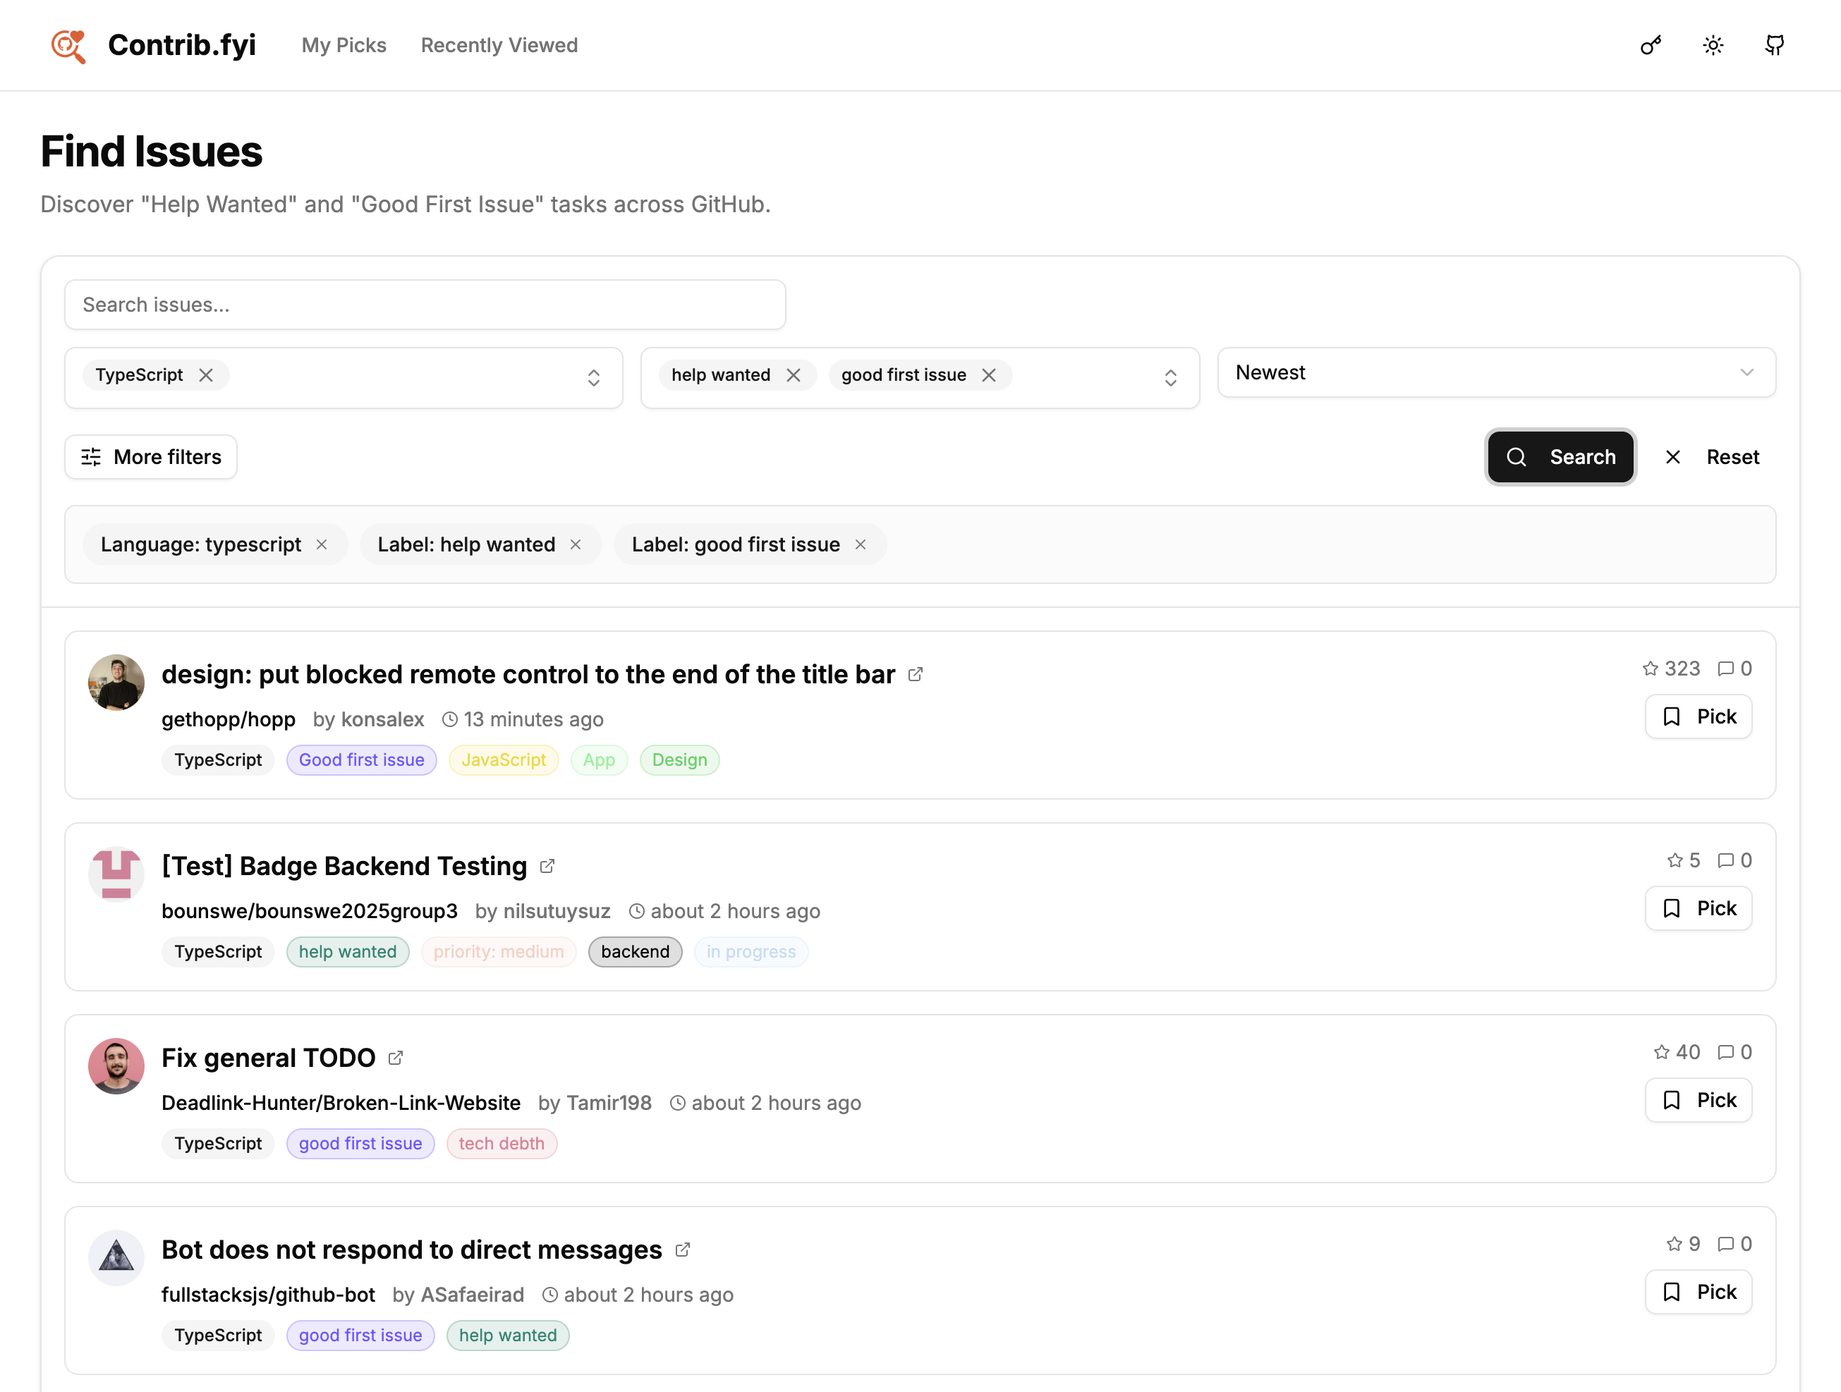
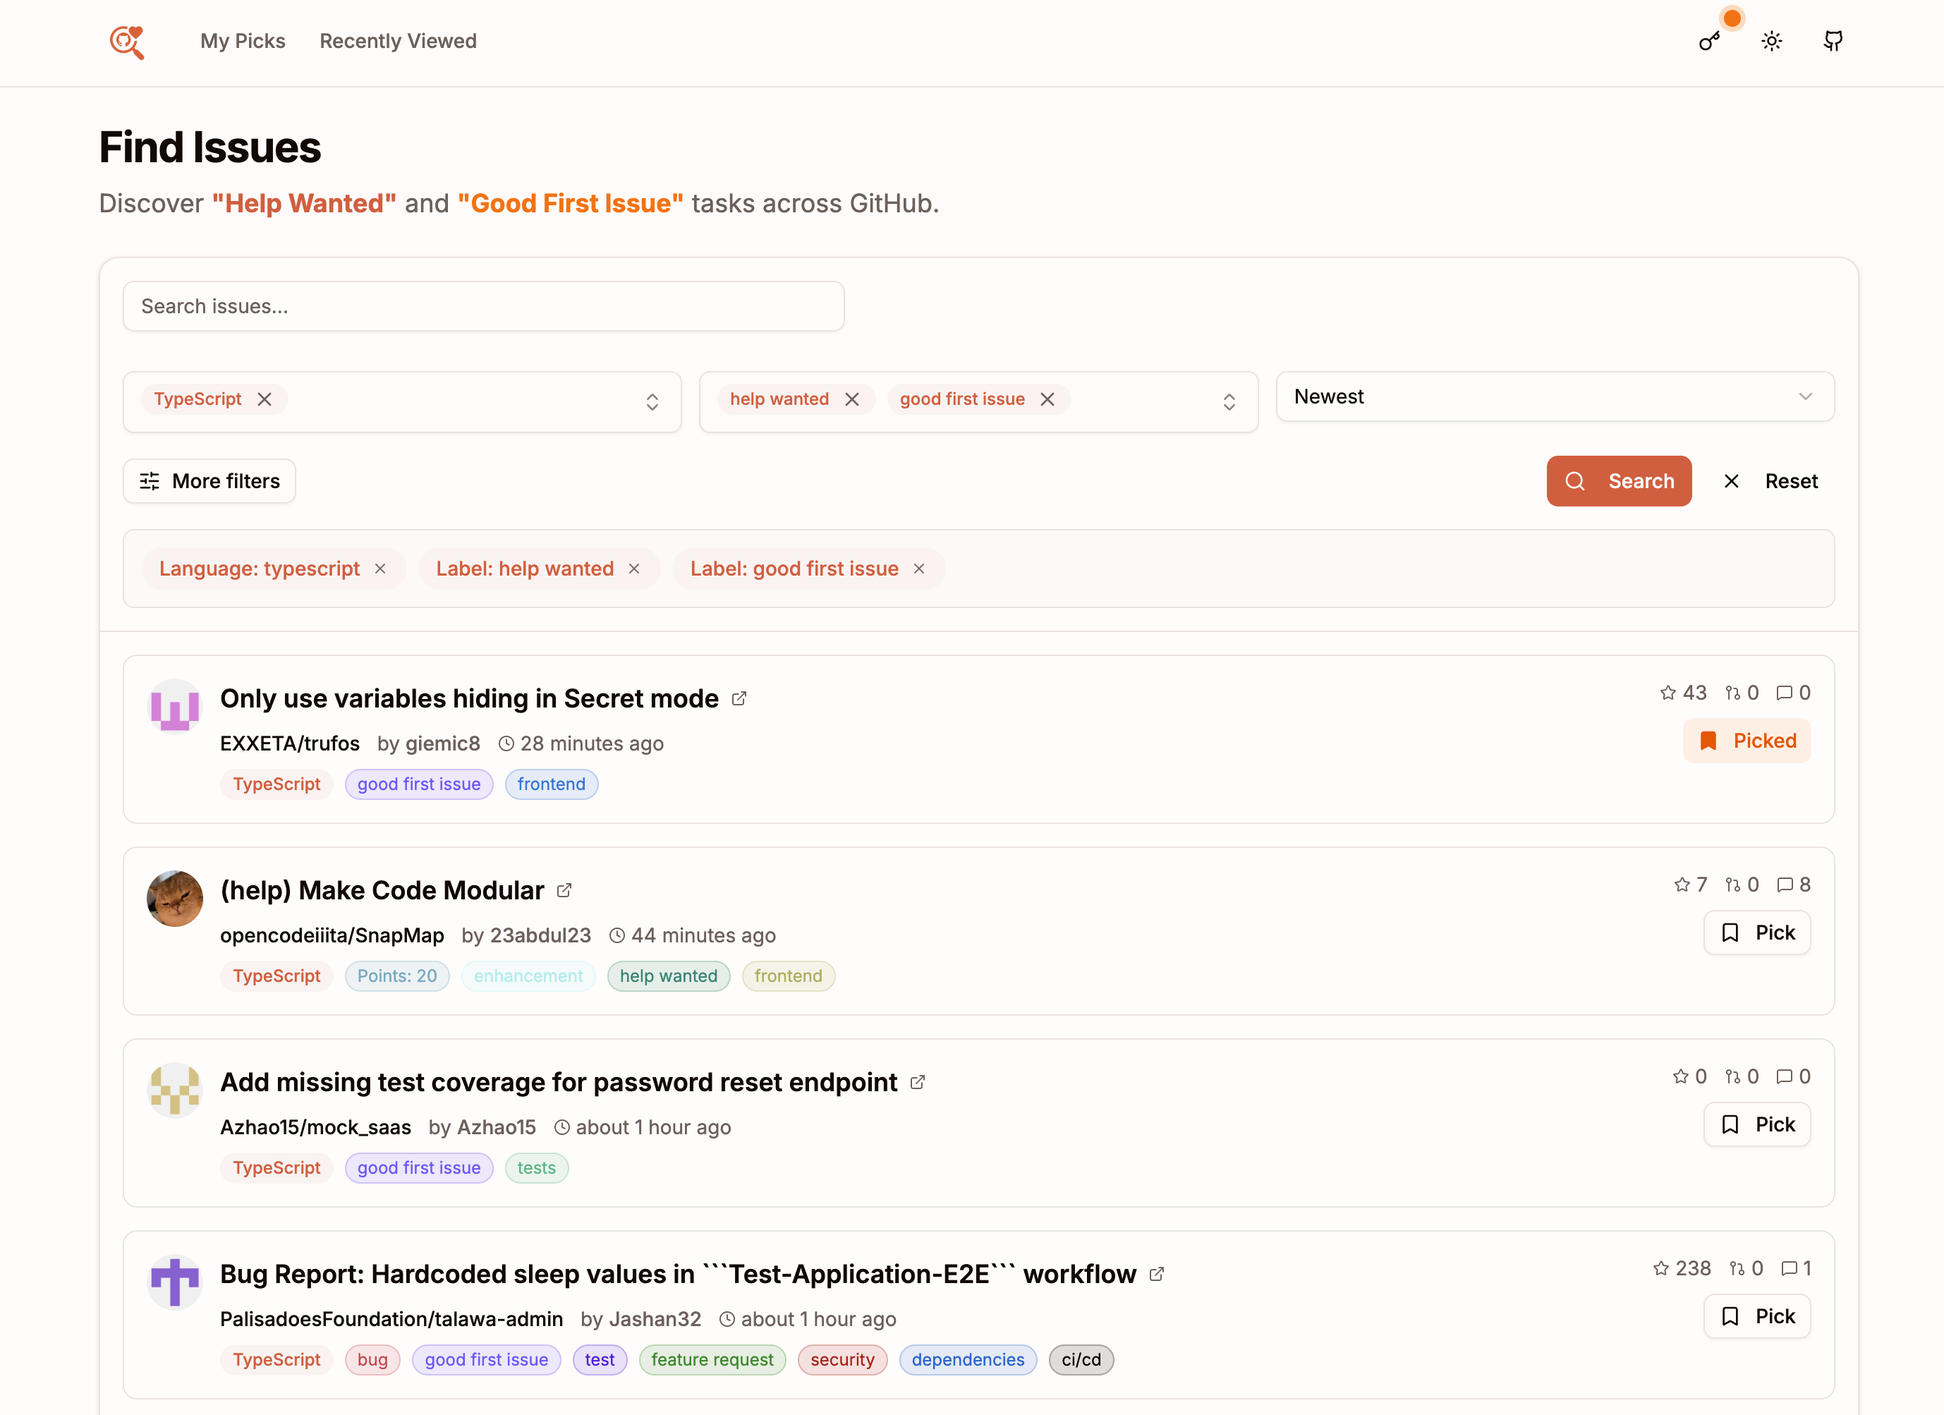
style: refine application color palette and update UI element colors. (#38)
* style: refine application color palette and update UI element colors.

* docs: Revise README to clarify project value and features, update screenshot, and add `suppressHydrationWarning` to body.

diff --git a/web/app/globals.css b/web/app/globals.css
@@ -46,71 +46,71 @@
 
 :root {
   --radius: 0.625rem;
-  --background: oklch(1 0 0);
-  --foreground: oklch(0.145 0 0);
-  --card: oklch(1 0 0);
-  --card-foreground: oklch(0.145 0 0);
+  --background: oklch(0.99 0.005 35);
+  --foreground: oklch(0.15 0.02 35);
+  --card: oklch(0.995 0.005 35);
+  --card-foreground: oklch(0.15 0.02 35);
   --popover: oklch(1 0 0);
-  --popover-foreground: oklch(0.145 0 0);
-  --primary: oklch(0.205 0 0);
+  --popover-foreground: oklch(0.15 0.02 35);
+  --primary: oklch(0.63 0.18 35);
   --primary-foreground: oklch(0.985 0 0);
-  --secondary: oklch(0.97 0 0);
-  --secondary-foreground: oklch(0.205 0 0);
-  --muted: oklch(0.97 0 0);
-  --muted-foreground: oklch(0.556 0 0);
-  --accent: oklch(0.97 0 0);
-  --accent-foreground: oklch(0.205 0 0);
-  --destructive: oklch(0.577 0.245 27.325);
-  --border: oklch(0.922 0 0);
-  --input: oklch(0.922 0 0);
-  --ring: oklch(0.708 0 0);
-  --chart-1: oklch(0.646 0.222 41.116);
-  --chart-2: oklch(0.6 0.118 184.704);
-  --chart-3: oklch(0.398 0.07 227.392);
-  --chart-4: oklch(0.828 0.189 84.429);
-  --chart-5: oklch(0.769 0.188 70.08);
-  --sidebar: oklch(0.985 0 0);
-  --sidebar-foreground: oklch(0.145 0 0);
-  --sidebar-primary: oklch(0.205 0 0);
+  --secondary: oklch(0.97 0.01 35);
+  --secondary-foreground: oklch(0.63 0.18 35);
+  --muted: oklch(0.97 0.01 35);
+  --muted-foreground: oklch(0.5 0.02 35);
+  --accent: oklch(0.97 0.01 35);
+  --accent-foreground: oklch(0.63 0.18 35);
+  --destructive: oklch(0.55 0.22 25);
+  --border: oklch(0.92 0.01 35);
+  --input: oklch(0.92 0.01 35);
+  --ring: oklch(0.63 0.18 35);
+  --chart-1: oklch(0.63 0.18 35);
+  --chart-2: oklch(0.68 0.16 45);
+  --chart-3: oklch(0.73 0.14 55);
+  --chart-4: oklch(0.78 0.12 65);
+  --chart-5: oklch(0.83 0.1 75);
+  --sidebar: oklch(0.98 0.005 35);
+  --sidebar-foreground: oklch(0.15 0.02 35);
+  --sidebar-primary: oklch(0.63 0.18 35);
   --sidebar-primary-foreground: oklch(0.985 0 0);
-  --sidebar-accent: oklch(0.97 0 0);
-  --sidebar-accent-foreground: oklch(0.205 0 0);
-  --sidebar-border: oklch(0.922 0 0);
-  --sidebar-ring: oklch(0.708 0 0);
+  --sidebar-accent: oklch(0.97 0.01 35);
+  --sidebar-accent-foreground: oklch(0.63 0.18 35);
+  --sidebar-border: oklch(0.92 0.01 35);
+  --sidebar-ring: oklch(0.63 0.18 35);
 }
 
 .dark {
-  --background: oklch(0.145 0 0);
-  --foreground: oklch(0.985 0 0);
-  --card: oklch(0.205 0 0);
-  --card-foreground: oklch(0.985 0 0);
-  --popover: oklch(0.205 0 0);
-  --popover-foreground: oklch(0.985 0 0);
-  --primary: oklch(0.922 0 0);
-  --primary-foreground: oklch(0.205 0 0);
-  --secondary: oklch(0.269 0 0);
-  --secondary-foreground: oklch(0.985 0 0);
-  --muted: oklch(0.269 0 0);
-  --muted-foreground: oklch(0.708 0 0);
-  --accent: oklch(0.269 0 0);
-  --accent-foreground: oklch(0.985 0 0);
-  --destructive: oklch(0.704 0.191 22.216);
-  --border: oklch(1 0 0 / 10%);
-  --input: oklch(1 0 0 / 15%);
-  --ring: oklch(0.556 0 0);
-  --chart-1: oklch(0.488 0.243 264.376);
-  --chart-2: oklch(0.696 0.17 162.48);
-  --chart-3: oklch(0.769 0.188 70.08);
-  --chart-4: oklch(0.627 0.265 303.9);
-  --chart-5: oklch(0.645 0.246 16.439);
-  --sidebar: oklch(0.205 0 0);
-  --sidebar-foreground: oklch(0.985 0 0);
-  --sidebar-primary: oklch(0.488 0.243 264.376);
-  --sidebar-primary-foreground: oklch(0.985 0 0);
-  --sidebar-accent: oklch(0.269 0 0);
-  --sidebar-accent-foreground: oklch(0.985 0 0);
-  --sidebar-border: oklch(1 0 0 / 10%);
-  --sidebar-ring: oklch(0.556 0 0);
+  --background: oklch(0.12 0.02 260);
+  --foreground: oklch(0.98 0.005 35);
+  --card: oklch(0.15 0.02 260);
+  --card-foreground: oklch(0.98 0.005 35);
+  --popover: oklch(0.15 0.02 260);
+  --popover-foreground: oklch(0.98 0.005 35);
+  --primary: oklch(0.68 0.18 40);
+  --primary-foreground: oklch(0.1 0.02 260);
+  --secondary: oklch(0.18 0.04 35);
+  --secondary-foreground: oklch(0.98 0.005 35);
+  --muted: oklch(0.18 0.04 35);
+  --muted-foreground: oklch(0.7 0.01 35);
+  --accent: oklch(0.18 0.04 35);
+  --accent-foreground: oklch(0.98 0.005 35);
+  --destructive: oklch(0.6 0.18 25);
+  --border: oklch(0.2 0.02 260);
+  --input: oklch(0.2 0.02 260);
+  --ring: oklch(0.68 0.18 40);
+  --chart-1: oklch(0.68 0.18 40);
+  --chart-2: oklch(0.73 0.16 50);
+  --chart-3: oklch(0.78 0.14 60);
+  --chart-4: oklch(0.83 0.12 70);
+  --chart-5: oklch(0.88 0.1 80);
+  --sidebar: oklch(0.15 0.02 260);
+  --sidebar-foreground: oklch(0.98 0.005 35);
+  --sidebar-primary: oklch(0.68 0.18 40);
+  --sidebar-primary-foreground: oklch(0.1 0.02 260);
+  --sidebar-accent: oklch(0.18 0.04 35);
+  --sidebar-accent-foreground: oklch(0.98 0.005 35);
+  --sidebar-border: oklch(0.2 0.02 260);
+  --sidebar-ring: oklch(0.68 0.18 40);
 }
 
 @layer base {

diff --git a/web/components/features/auth/TokenSettings.tsx b/web/components/features/auth/TokenSettings.tsx
@@ -57,8 +57,8 @@ export function TokenSettings() {
           <Key className="h-5 w-5" />
           {isTokenSet && (
             <span className="absolute -top-1 -right-1 flex h-3 w-3">
-              <span className="absolute inline-flex h-full w-full animate-ping rounded-full bg-green-400 opacity-75"></span>
-              <span className="relative inline-flex h-3 w-3 rounded-full bg-green-500"></span>
+              <span className="absolute inline-flex h-full w-full animate-ping rounded-full bg-orange-400 opacity-75"></span>
+              <span className="relative inline-flex h-3 w-3 rounded-full bg-orange-500"></span>
             </span>
           )}
         </Button>
@@ -86,20 +86,20 @@ export function TokenSettings() {
           </div>
 
           {/* Feature Unlock Callout */}
-          <div className="rounded-lg border border-blue-500/20 bg-gradient-to-r from-blue-500/10 via-purple-500/10 to-pink-500/10 p-3">
+          <div className="bg-muted/50 rounded-lg border p-3">
             <div className="flex items-start gap-2">
-              <div className="shrink-0 rounded-full bg-gradient-to-br from-blue-500 to-purple-600 p-1.5">
+              <div className="bg-primary shrink-0 rounded-full p-1.5">
                 <svg
                   xmlns="http://www.w3.org/2000/svg"
                   viewBox="0 0 24 24"
                   fill="currentColor"
-                  className="h-3.5 w-3.5 text-white"
+                  className="text-primary-foreground h-3.5 w-3.5"
                 >
                   <path d="M9.153 5.408C10.42 3.136 11.053 2 12 2c.947 0 1.58 1.136 2.847 3.408l.328.588c.36.646.54.969.82 1.182.28.213.63.292 1.33.45l.636.144c2.46.557 3.689.835 3.982 1.776.292.94-.546 1.921-2.223 3.882l-.434.507c-.476.557-.715.836-.822 1.18-.107.345-.071.717.001 1.46l.066.677c.253 2.617.38 3.925-.386 4.506-.766.582-1.918.051-4.22-1.009l-.597-.274c-.654-.302-.981-.452-1.328-.452-.347 0-.674.15-1.329.452l-.595.274c-2.303 1.06-3.455 1.59-4.22 1.01-.767-.582-.64-1.89-.387-4.507l.066-.676c.072-.744.108-1.116 0-1.46-.106-.345-.345-.624-.821-1.18l-.434-.508c-1.677-1.96-2.515-2.941-2.223-3.882.293-.941 1.523-1.22 3.983-1.776l.636-.144c.699-.158 1.048-.237 1.329-.45.28-.213.46-.536.82-1.182l.328-.588z" />
                 </svg>
               </div>
               <div className="min-w-0 flex-1">
-                <p className="bg-gradient-to-r from-blue-600 to-purple-600 bg-clip-text text-sm font-semibold text-transparent dark:from-blue-400 dark:to-purple-400">
+                <p className="text-foreground text-sm font-semibold">
                   Additional Features with Token
                 </p>
                 <p className="text-muted-foreground mt-0.5 text-xs">

diff --git a/web/app/page.tsx b/web/app/page.tsx
@@ -8,11 +8,11 @@ export default function Home() {
         <h1 className="text-3xl font-bold tracking-tight">Find Issues</h1>
         <p className="text-muted-foreground text-lg">
           Discover{' '}
-          <span className="bg-linear-to-r from-blue-600 to-cyan-500 bg-clip-text font-extrabold text-transparent dark:from-blue-400 dark:to-cyan-300">
+          <span className="text-primary font-bold">
             &quot;Help Wanted&quot;
           </span>{' '}
           and{' '}
-          <span className="bg-linear-to-r from-purple-600 to-pink-500 bg-clip-text font-extrabold text-transparent dark:from-purple-400 dark:to-pink-300">
+          <span className="font-bold text-orange-500 dark:text-orange-400">
             &quot;Good First Issue&quot;
           </span>{' '}
           tasks across GitHub.

diff --git a/web/components/features/issues/IssueDetailModal.tsx b/web/components/features/issues/IssueDetailModal.tsx
@@ -176,6 +176,11 @@ export function IssueDetailModal({ issue, children }: IssueDetailModalProps) {
           <Button
             variant={picked ? 'secondary' : 'outline'}
             onClick={handlePickToggle}
+            className={
+              picked
+                ? 'border-orange-200 bg-orange-500/10 text-orange-600 hover:bg-orange-500/20 dark:border-orange-900'
+                : ''
+            }
           >
             <Bookmark
               className={`mr-2 h-4 w-4 ${picked ? 'fill-current' : ''}`}

diff --git a/web/components/features/issues/IssueRow.tsx b/web/components/features/issues/IssueRow.tsx
@@ -209,7 +209,7 @@ export function IssueRow({ issue }: IssueRowProps) {
             onClick={handlePickToggle}
             className={
               picked
-                ? 'border-yellow-200 bg-yellow-500/10 text-yellow-600 hover:bg-yellow-500/20 dark:border-yellow-900'
+                ? 'border-orange-200 bg-orange-500/10 text-orange-600 hover:bg-orange-500/20 dark:border-orange-900'
                 : ''
             }
           >

diff --git a/web/app/layout.tsx b/web/app/layout.tsx
@@ -18,7 +18,7 @@ export default function RootLayout({
 }>) {
   return (
     <html lang="en" suppressHydrationWarning>
-      <body className={inter.className}>
+      <body className={inter.className} suppressHydrationWarning>
         <ThemeProvider
           attribute="class"
           defaultTheme="system"

diff --git a/README.md b/README.md
@@ -1,7 +1,7 @@
 <div align="center">
   <img src="web/app/logo.png" alt="Contrib.FYI Logo" width="150" height="150">
   <h1>Contrib.FYI</h1>
-    Find your next open source contribution on GitHub with ease.
+    Finding issues is easy. Deciding which ones are worth your time is not.
   <br><br>
   <img src="https://img.shields.io/badge/license-MIT-blue.svg" alt="MIT License">
   <img src="https://img.shields.io/badge/Built%20with-Next.js-black" alt="Built with Next.js">
@@ -12,55 +12,128 @@
   <h3>
     <a href="https://contrib-fyi.github.io/contrib-fyi/"> 👉 Visit the Web App</a>
   </h3>
+  <img src="docs/screenshot.png" alt="Contrib.FYI Screenshot">
 </div>
+
+Finding meaningful open source issues is harder than it should be.
+
+Contrib.FYI helps you find open source issues on GitHub while reducing the time wasted opening issues that are already being worked on.
 
 ## Why Contrib.FYI?
 
-There are many "Good First Issue" finders available today, but most rely on static lists of curated, popular repositories.
+[github-help-wanted](https://github.com/mac-s-g/github-help-wanted/) offered an excellent experience.
+Browsing issues in chronological order made it easy to discover projects
+I would never have found otherwise.
 
-I previously relied on [github-help-wanted](https://github.com/mac-s-g/github-help-wanted/). What I loved most about it was the **thrill of discovery**—because it displayed issues in chronological order, I often stumbled upon unexpectedly wonderful projects that I would have otherwise missed.
+Unfortunately, the service is no longer available.
 
-Contrib.FYI was built to preserve this experience of **serendipitous discovery**. It carries forward the "Dynamic Search" philosophy by combining real-time GitHub API access with a modern interface. With local issue tracking and personal token integration, it creates a robust environment where you can find fresh, exciting opportunities in the open source world.
+While rebuilding that experience, I noticed another problem.
 
-### Comparison
+> **Finding issues is easy.  
+> Deciding whether to work on them is expensive.**
 
-| Feature             | Contrib.FYI                       | Other Curated Sites           |
-| :------------------ | :-------------------------------- | :---------------------------- |
-| **Search Strategy** | Dynamic Search (Live GitHub Data) | Static Curation (Manual/Cron) |
-| **Niche Languages** | Any Language                      | Major ones only               |
-| **Repo Discovery**  | Find hidden gems                  | Famous repos only             |
-| **Rate Limit**      | High (Bring your own Token)       | Often limited                 |
-| **My Picks (Save)** | Local Storage                     | Rarely supported              |
+Many issues already have:
+
+- ongoing discussions
+- linked pull requests
+- contributors actively working on them
+
+Opening those issues only to realize this costs time and attention.
+Contrib.FYI keeps the discovery experience — but adds signals
+to reduce wasted effort _before_ you click.
+
+## What Contrib.FYI Does Differently
+
+Contrib.FYI is designed to preserve one specific experience:
+**serendipitous discovery**.
+
+Browsing issues in chronological order creates opportunities to stumble upon
+projects you were never explicitly looking for.
+This kind of accidental discovery is difficult to achieve with static,
+curated lists that surface the same popular repositories repeatedly.
+
+Contrib.FYI embraces this idea through a dynamic search approach,
+using live GitHub API data to reflect what is happening right now —
+while adding signals that help you decide whether an issue is worth your time.
+
+In practice, this means:
+
+- Uses live GitHub API data
+- Surfaces issues in real time
+- Preserves chronological discovery
+- Adds signals to reduce wasted effort
+
+This is not about finding more issues.
+It is about finding better candidates to spend your time on.
+
+This design intentionally trades optimization for exploration.
 
 ## Key Features
 
-### 🔍 Advanced Dynamic Search
+### 🔍 Dynamic, Real-Time Search
 
-Directly leverages the GitHub API to provide real-time information. Unlike curated lists, you find what is actually happening right now.
+Contrib.FYI directly queries the GitHub API.
+What you see reflects what is happening right now, not a cached or curated snapshot.
+
+This keeps discovery fresh and avoids the same well-known repositories dominating results.
 
 ### 🏷 Flexible Filtering
 
-Freely combine filters for programming languages, labels (e.g., "help wanted", "good first issue"), and exclude keywords to refine your search.
+You can freely combine filters such as:
 
-### 🔐 Privacy First & High Rate Limits
+- Programming language
+- Issue labels (e.g. `help wanted`, `good first issue`)
+- Excluded keywords
 
-You can configure your own GitHub Personal Access Token (PAT) to increase API rate limits from 60 to 5,000 requests per hour.
-**Privacy First:** Your token is stored strictly in your browser's `localStorage` and is never sent to any external server.
+This allows both broad exploration and focused searching.
 
-#### Additional Features with Token
+### 🔐 GitHub Token Integration (Optional but Recommended)
 
-- Repository Star Count
-  - See how popular each repository is at a glance
-- Star Filtering
-  - Filter issues by minimum repository stars to focus on well-established projects
-- Linked Pull Request Count
-  - View the number of linked pull requests for each issue to assess activity and context
-- No linked PRs filter
-  - Show only issues that have no linked pull requests
+By providing your own GitHub Personal Access Token (PAT), you unlock higher rate limits
+and additional signals that help reduce wasted effort.
+
+- API rate limit increases from 60 → 5,000 requests/hour
+- Your token is stored only in your browser’s `localStorage`
+- The token is never sent to any external server
+
+#### Additional Signals (With Token)
+
+These features exist for one purpose:
+to avoid spending time on issues that are already being handled.
+
+- **Repository star count**
+  - Focus on projects that match your desired scale
+- **Primary programming language**
+  - Avoid skill mismatches
+- **No comments filter**
+  - Reduce the chance of ongoing discussion
+- **No linked PRs filter**
+  - Avoid issues already being worked on
+
+Together, these signals help you make a decision before opening the issue.
 
 ### 🔖 My Picks
 
-Save interesting issues to your local "My Picks" list to review and tackle later.
+Interesting issues can be saved locally to your **My Picks** list.
+
+This allows you to:
+
+- collect candidates
+- compare later
+- return when you actually have time to work on them
+
+All data is stored locally in your browser.
+
+### Comparison
+
+| Feature          | Contrib.FYI                    | Other Curated Sites          |
+| ---------------- | ------------------------------ | ---------------------------- |
+| Search Strategy  | Dynamic (Live GitHub Data)     | Static (Manual / Cron-based) |
+| Discovery Style  | Chronological, serendipitous   | Popular repositories first   |
+| Niche Languages  | Any                            | Major languages only         |
+| Decision Signals | Stars, PRs, comments, language | Rarely available             |
+| Rate Limit       | High (Bring your own token)    | Often limited                |
+| Save Issues      | Local storage (My Picks)       | Rarely supported             |
 
 ---
 
@@ -70,7 +143,7 @@ If you want to run this project locally or contribute to its development, follow
 
 ### Prerequisites
 
-- Node.js 18+ or compatible package manager
+- Node.js 20+ or compatible package manager
 - (Optional) GitHub Personal Access Token for higher rate limits
 
 ### Installation
@@ -78,7 +151,7 @@ If you want to run this project locally or contribute to its development, follow
 1. Clone the repository:
 
 ```bash
-git clone https://github.com/yourusername/contrib-fyi.git
+git clone https://github.com/contrib-fyi/contrib-fyi.git
 cd contrib-fyi/web
 ```
 
